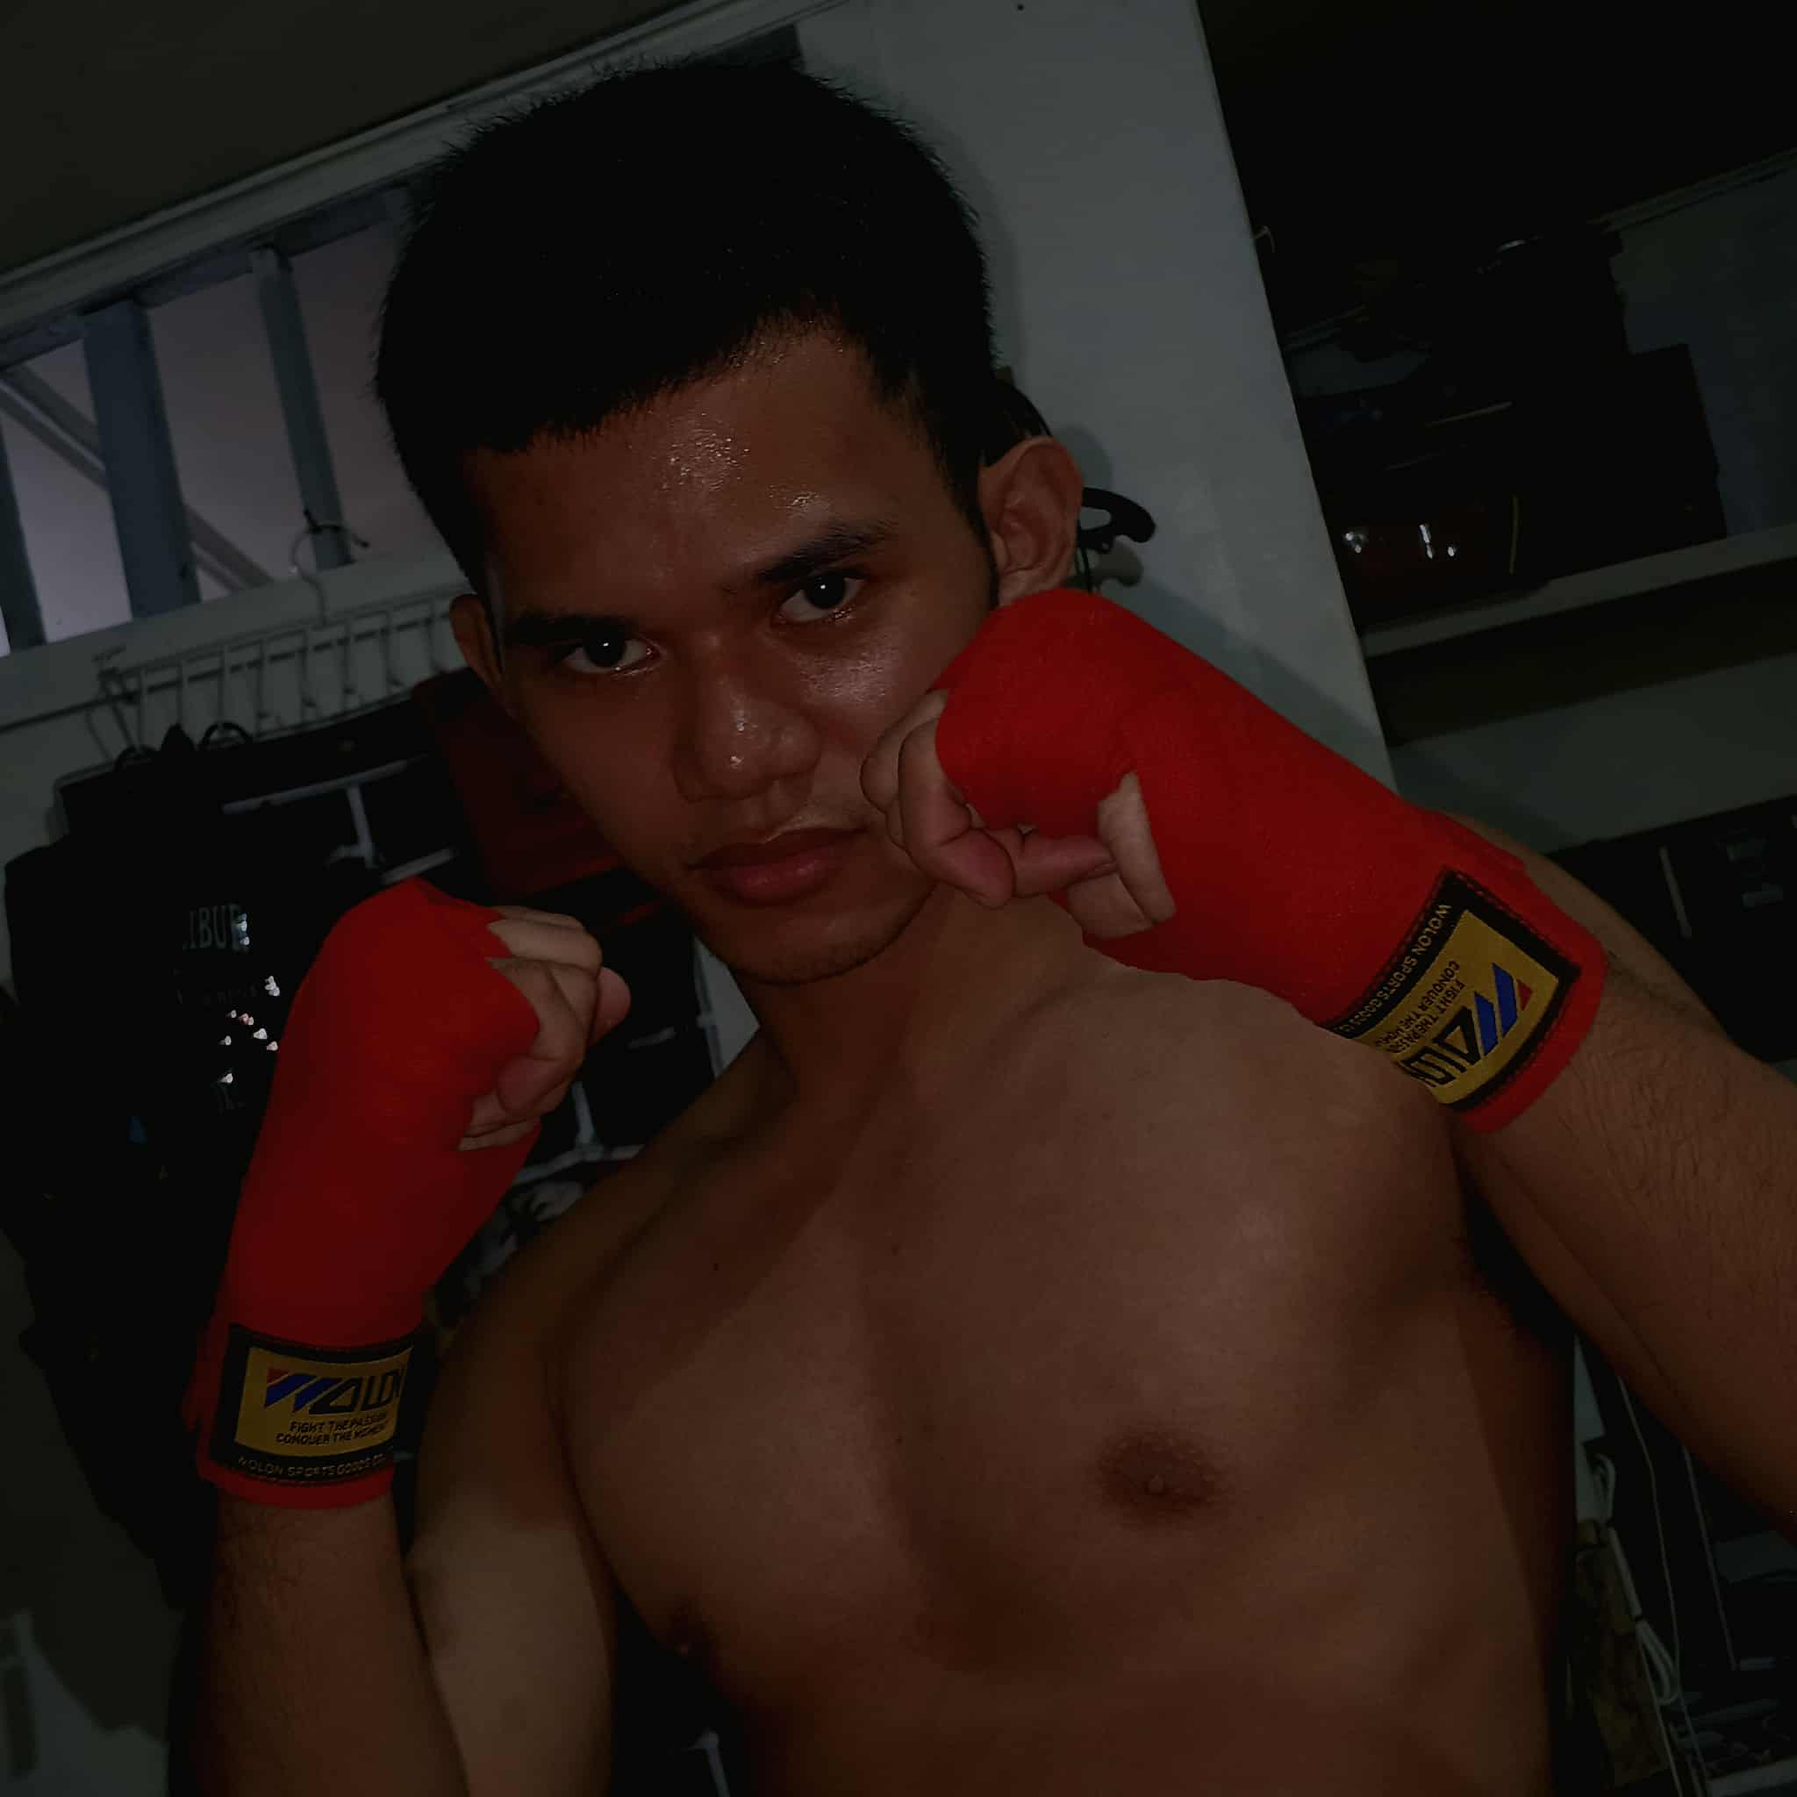
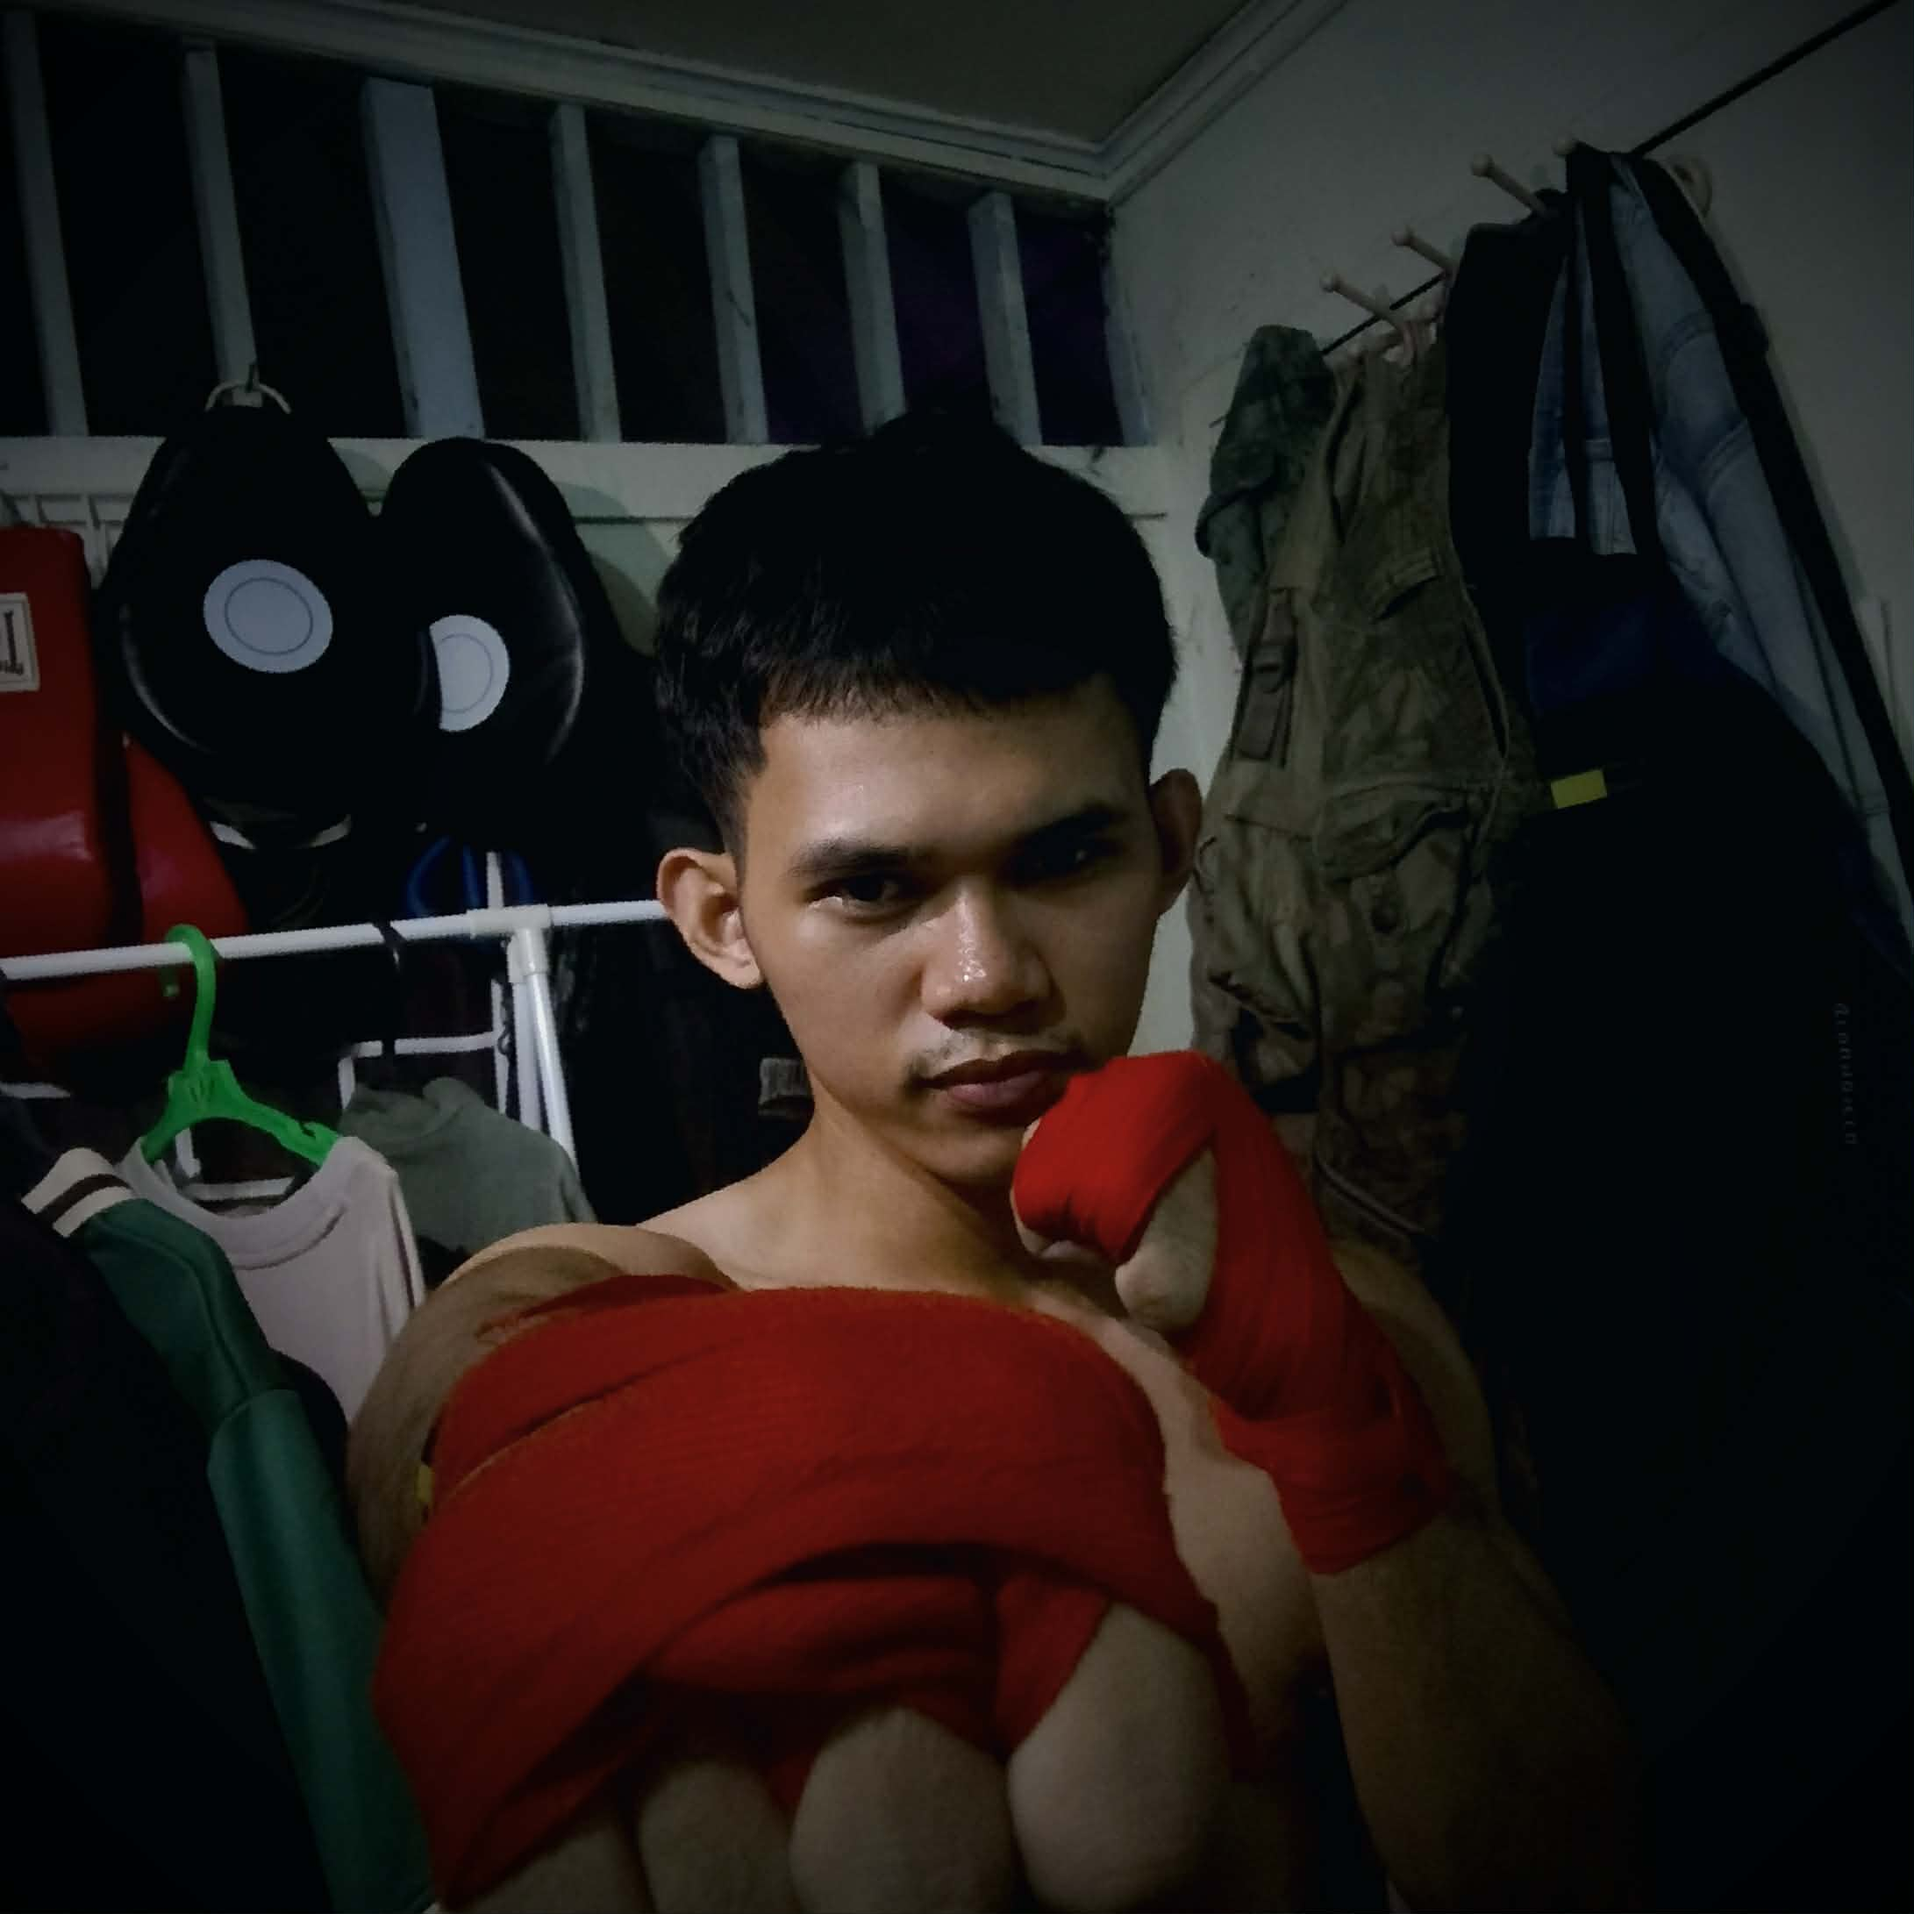
fixed FIGHT ZONE app with PostGreSQL Database

diff --git a/templates/login.html b/templates/login.html
@@ -230,8 +230,8 @@ html, body {
     <div class="form-container">
         <h2>Login</h2>
 
-        {% if error %}
-        <div class="alert alert-error">{{ error }}</div>
+        {% if popup_message %}
+        <div class="alert alert-error">{{ popup_message }}</div>
         {% endif %}
 
         <form method="POST" action="/login" id="loginForm">

diff --git a/templates/processing.html b/templates/processing.html
@@ -31,7 +31,7 @@
 
     <script>
         setTimeout(() => {
-            window.location.href = "/membership";
+        window.location.href = "{{ url_for(dest) }}";
         }, 3000);
     </script>
 </head>

diff --git a/app.py b/app.py
@@ -1,8 +1,10 @@
 from flask import Flask, render_template, request, redirect, url_for, session, jsonify, flash
 from werkzeug.security import generate_password_hash, check_password_hash
 from werkzeug.utils import secure_filename
-import mysql.connector
-from mysql.connector import Error
+import psycopg2
+import psycopg2.extensions
+from psycopg2 import Error
+from psycopg2.extras import RealDictCursor
 import os
 from datetime import datetime, timedelta
 import random
@@ -17,10 +19,18 @@ app.secret_key = 'your_secret_key_here'
 
 DB_CONFIG = {
     "host": "localhost",
-    "user": "root",
-    "password": "",
+    "port": 5432,
+    "user": "postgres",
+    "password": "secy082222",
     "database": "fight_zone"
 }
+
+class _PgConnection(psycopg2.extensions.connection):
+    """Lets cursor(dictionary=True) keep working, like mysql.connector did."""
+    def cursor(self, *args, **kwargs):
+        if kwargs.pop("dictionary", False):
+            kwargs["cursor_factory"] = RealDictCursor
+        return super().cursor(*args, **kwargs)
 
 # Admin configuration (Option A: Admin by email)
 ADMIN_EMAIL = "admin@fightzone.com"
@@ -28,7 +38,7 @@ ADMIN_PASSWORD = "admin123"
 
 # Email (placeholder - used for OTP sending)
 EMAIL_SENDER = "magalloncynric@gmail.com"
-EMAIL_APP_PASSWORD = "lehb diih shza rmnx"
+EMAIL_APP_PASSWORD = "xpqv wpch sewe zzvf"
 EMAIL_SMTP = "smtp.gmail.com"
 EMAIL_PORT = 465
 
@@ -41,14 +51,14 @@ os.makedirs(UPLOAD_FOLDER, exist_ok=True)
 
 # ---------- DB helper ----------
 def get_db_connection():
-    return mysql.connector.connect(
+    return psycopg2.connect(
         host=DB_CONFIG["host"],
+        port=DB_CONFIG["port"],
         user=DB_CONFIG["user"],
         password=DB_CONFIG["password"],
-        database=DB_CONFIG["database"],
-        auth_plugin='mysql_native_password'
+        dbname=DB_CONFIG["database"],
+        connection_factory=_PgConnection
     )
-
 # ---------- Dev convenience: ensure admin exists ----------
 def ensure_admin():
     """
@@ -416,7 +426,7 @@ def benefits():
 @app.route('/membership')
 def membership():
     if 'user_id' not in session:
-        return redirect(url_for('login'))
+        return redirect(url_for('processing_page', dest='membership'))
 
     user_id = session['user_id']
     status = None
@@ -457,7 +467,7 @@ def membership():
 @app.route('/store')
 def store():
     if 'user_id' not in session:
-        return redirect(url_for('login'))
+        return redirect(url_for('processing_page', dest='store'))
     return render_template('store.html')
 
 
@@ -781,7 +791,8 @@ def pay_gcash():
 def processing_page():
     if 'user_id' not in session:
         return redirect(url_for('login'))
-    return render_template("processing.html")
+    dest = request.args.get('dest', 'membership')
+    return render_template("processing.html", dest=dest)
 
 # ----------------- MEMBERSHIP: PAY BANK (form) -----------------
 @app.route('/pay/bank', methods=['POST'])
@@ -935,7 +946,7 @@ def admin_subscriptions():
             SELECT
                 s.id,
                 s.user_id,
-                CONCAT(IFNULL(u.first_name,''), ' ', IFNULL(u.last_name,'')) AS requester_username,
+                CONCAT(COALESCE(u.first_name,''), ' ', COALESCE(u.last_name,'')) AS requester_username,
                 u.email AS requester_email,
                 s.payment_method,
                 s.plan AS item,
@@ -955,7 +966,7 @@ def admin_subscriptions():
             SELECT
                 o.id,
                 o.user_id,
-                CONCAT(IFNULL(u.first_name,''), ' ', IFNULL(u.last_name,'')) AS requester_username,
+                CONCAT(COALESCE(u.first_name,''), ' ', COALESCE(u.last_name,'')) AS requester_username,
                 u.email AS requester_email,
                 o.payment_method,
                 o.product_name AS item,
@@ -1101,13 +1112,12 @@ def admin_transactions():
         conn = get_db_connection()
         cursor = conn.cursor(dictionary=True)
 
-        # union the two tables, then order by created_at
         cursor.execute("""
             SELECT * FROM (
                 SELECT
                     s.id,
                     s.user_id,
-                    CONCAT(IFNULL(u.first_name,''), ' ', IFNULL(u.last_name,'')) AS username,
+                    CONCAT(COALESCE(u.first_name,''), ' ', COALESCE(u.last_name,'')) AS username,
                     s.payment_method,
                     s.plan AS item,
                     s.price,
@@ -1116,12 +1126,12 @@ def admin_transactions():
                     'membership' AS type,
                     s.created_at
                 FROM subscriptions s
-                JOIN users u ON s.user_id = u.id
+                LEFT JOIN users u ON s.user_id = u.id
                 UNION ALL
                 SELECT
                     o.id,
                     o.user_id,
-                    CONCAT(IFNULL(u.first_name,''), ' ', IFNULL(u.last_name,'')) AS username,
+                    CONCAT(COALESCE(u.first_name,''), ' ', COALESCE(u.last_name,'')) AS username,
                     o.payment_method,
                     o.product_name AS item,
                     o.price,
@@ -1130,7 +1140,7 @@ def admin_transactions():
                     'store' AS type,
                     o.created_at
                 FROM store_orders o
-                JOIN users u ON o.user_id = u.id
+                LEFT JOIN users u ON o.user_id = u.id
             ) AS alltx
             ORDER BY created_at DESC
         """)
@@ -1150,4 +1160,4 @@ def admin_transactions():
 # ---------- App startup ----------
 if __name__ == '__main__':
     ensure_admin()
-    app.run(debug=True)
+    app.run(debug=True, host="127.0.0.1", port=5000)
